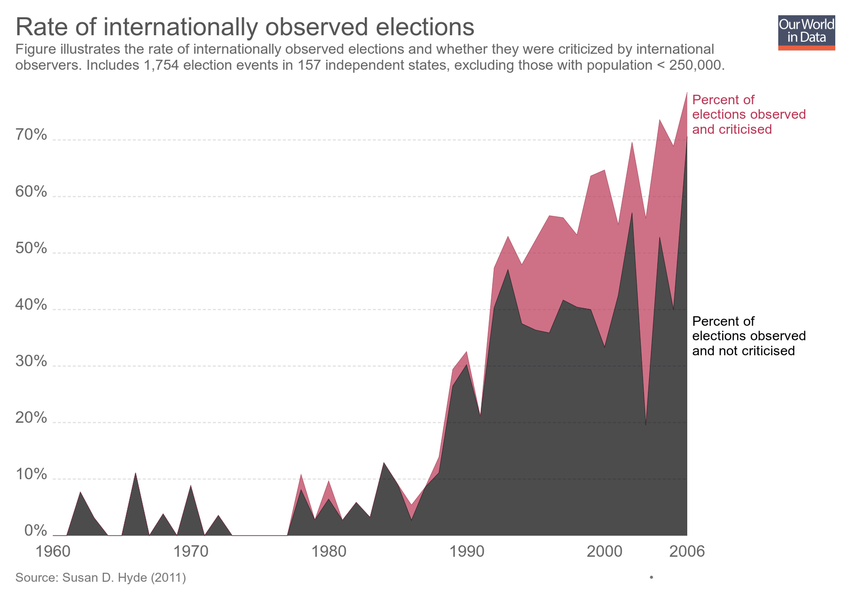
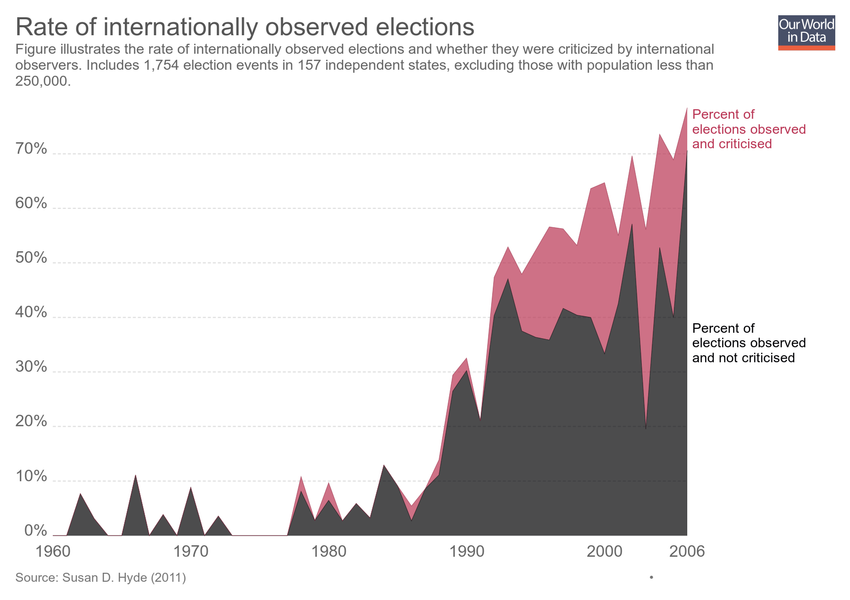
Updating chart rate-of-internationally-observed-elections

diff --git a/grapher/rate-of-internationally-observed-elections.html b/grapher/rate-of-internationally-observed-elections.html
@@ -1,4 +1,4 @@
-<!doctype html><html><head><meta name="viewport" content="width=device-width, initial-scale=1" /><title>Rate of internationally observed elections - Our World in Data</title><meta name="description" content="Figure illustrates the rate of internationally observed elections and whether they were criticized by international observers. Includes 1,754 election events in 157 independent states, excluding those with population &lt; 250,000." /><link rel="canonical" href="https://ourworldindata.org/grapher/rate-of-internationally-observed-elections" /><meta property="fb:app_id" content="1149943818390250" /><meta property="og:url" content="https://ourworldindata.org/grapher/rate-of-internationally-observed-elections" /><meta property="og:title" content="Rate of internationally observed elections" /><meta property="og:description" content="Figure illustrates the rate of internationally observed elections and whether they were criticized by international observers. Includes 1,754 election events in 157 independent states, excluding those with population &lt; 250,000." /><meta property="og:image" content="https://ourworldindata.org/grapher/exports/rate-of-internationally-observed-elections.png?v=7" /><meta property="og:image:width" content="850" /><meta property="og:image:height" content="600" /><meta property="og:site_name" content="Our World in Data" /><meta name="twitter:card" content="summary_large_image" /><meta name="twitter:site" content="@OurWorldInData" /><meta name="twitter:creator" content="@OurWorldInData" /><meta name="twitter:title" content="Rate of internationally observed elections" /><meta name="twitter:description" content="Figure illustrates the rate of internationally observed elections and whether they were criticized by international observers. Includes 1,754 election events in 157 independent states, excluding those with population &lt; 250,000." /><meta name="twitter:image" content="https://ourworldindata.org/grapher/exports/rate-of-internationally-observed-elections.png?v=7" /><style>
+<!doctype html><html><head><meta name="viewport" content="width=device-width, initial-scale=1" /><title>Rate of internationally observed elections - Our World in Data</title><meta name="description" content="Figure illustrates the rate of internationally observed elections and whether they were criticized by international observers. Includes 1,754 election events in 157 independent states, excluding those with population less than 250,000." /><link rel="canonical" href="https://ourworldindata.org/grapher/rate-of-internationally-observed-elections" /><meta property="fb:app_id" content="1149943818390250" /><meta property="og:url" content="https://ourworldindata.org/grapher/rate-of-internationally-observed-elections" /><meta property="og:title" content="Rate of internationally observed elections" /><meta property="og:description" content="Figure illustrates the rate of internationally observed elections and whether they were criticized by international observers. Includes 1,754 election events in 157 independent states, excluding those with population less than 250,000." /><meta property="og:image" content="https://ourworldindata.org/grapher/exports/rate-of-internationally-observed-elections.png?v=10" /><meta property="og:image:width" content="850" /><meta property="og:image:height" content="600" /><meta property="og:site_name" content="Our World in Data" /><meta name="twitter:card" content="summary_large_image" /><meta name="twitter:site" content="@OurWorldInData" /><meta name="twitter:creator" content="@OurWorldInData" /><meta name="twitter:title" content="Rate of internationally observed elections" /><meta name="twitter:description" content="Figure illustrates the rate of internationally observed elections and whether they were criticized by international observers. Includes 1,754 election events in 157 independent states, excluding those with population less than 250,000." /><meta name="twitter:image" content="https://ourworldindata.org/grapher/exports/rate-of-internationally-observed-elections.png?v=10" /><style>
         html, body {
             height: 100%;
             margin: 0;
@@ -20,8 +20,8 @@
         }
     </style><noscript><style>
                     figure { display: none !important; }
-                </style></noscript><link rel="stylesheet" href="https://ourworldindata.org/grapher/assets/commons.bundle.a7ce280024c736539280.css" /><link rel="preload" href="/grapher/data/variables/97378+97379.json?v=7" as="fetch" crossorigin /></head><body class="singleChart"><figure data-grapher-src="/grapher/rate-of-internationally-observed-elections"></figure><noscript id="fallback"><img src="/grapher/exports/rate-of-internationally-observed-elections.svg" /><p>Interactive visualization requires JavaScript</p></noscript><script src="https://cdn.polyfill.io/v2/polyfill.min.js?features=es6,fetch"></script><script src="https://ourworldindata.org/grapher/assets/commons.bundle.a7ce280024c736539280.js"></script><script src="https://ourworldindata.org/grapher/assets/charts.bundle.dcf65b68eddaba4c6a58.js"></script><script>
-        var jsonConfig = {"id":2589,"map":{"projection":"World","colorSchemeLabels":[],"colorSchemeValues":[],"colorSchemeMinValue":0,"customNumericColors":[],"customCategoryColors":{},"customCategoryLabels":{},"customHiddenCategories":{}},"tab":"chart","slug":"rate-of-internationally-observed-elections","type":"StackedArea","title":"Rate of internationally observed elections","xAxis":{"scaleType":"linear"},"yAxis":{"max":80,"min":0,"scaleType":"linear"},"version":7,"subtitle":"Figure illustrates the rate of internationally observed elections and whether they were criticized by international observers. Includes 1,754 election events in 157 independent states, excluding those with population < 250,000.","hasMapTab":false,"stackMode":"absolute","dimensions":[{"display":{"name":"Percent of elections observed and criticised","unit":"%"},"property":"y","variableId":97378},{"display":{"name":"Percent of elections observed and not criticised"},"property":"y","variableId":97379}],"hasChartTab":true,"isPublished":true,"selectedData":[{"index":0,"entityId":355},{"index":1,"entityId":355}],"addCountryMode":"change-country","baseColorScheme":"Inferno","hideRelativeToggle":true,"hideTitleAnnotation":true};
+                </style></noscript><link rel="stylesheet" href="https://ourworldindata.org/grapher/assets/commons.bundle.a7ce280024c736539280.css" /><link rel="preload" href="/grapher/data/variables/97378+97379.json?v=10" as="fetch" crossorigin /></head><body class="singleChart"><figure data-grapher-src="/grapher/rate-of-internationally-observed-elections"></figure><noscript id="fallback"><img src="/grapher/exports/rate-of-internationally-observed-elections.svg" /><p>Interactive visualization requires JavaScript</p></noscript><script src="https://cdn.polyfill.io/v2/polyfill.min.js?features=es6,fetch"></script><script src="https://ourworldindata.org/grapher/assets/commons.bundle.a7ce280024c736539280.js"></script><script src="https://ourworldindata.org/grapher/assets/charts.bundle.dcf65b68eddaba4c6a58.js"></script><script>
+        var jsonConfig = {"id":2589,"map":{"projection":"World","colorSchemeLabels":[],"colorSchemeValues":[],"colorSchemeMinValue":0,"customNumericColors":[],"customCategoryColors":{},"customCategoryLabels":{},"customHiddenCategories":{}},"tab":"chart","slug":"rate-of-internationally-observed-elections","type":"StackedArea","title":"Rate of internationally observed elections","xAxis":{"scaleType":"linear"},"yAxis":{"max":80,"min":0,"scaleType":"linear"},"version":10,"subtitle":"Figure illustrates the rate of internationally observed elections and whether they were criticized by international observers. Includes 1,754 election events in 157 independent states, excluding those with population less than 250,000.","hasMapTab":false,"stackMode":"absolute","dimensions":[{"display":{"name":"Percent of elections observed and criticised","unit":"%"},"property":"y","variableId":97378},{"display":{"name":"Percent of elections observed and not criticised"},"property":"y","variableId":97379}],"hasChartTab":true,"isPublished":true,"selectedData":[{"index":0,"entityId":355},{"index":1,"entityId":355}],"addCountryMode":"change-country","baseColorScheme":"Inferno","hideRelativeToggle":true,"hideTitleAnnotation":true};
         var figure = document.getElementsByTagName("figure")[0];
         try {
             window.App = {};
